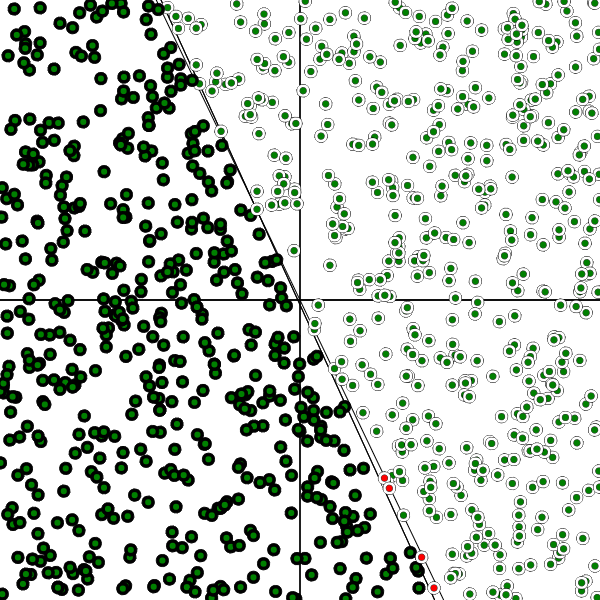
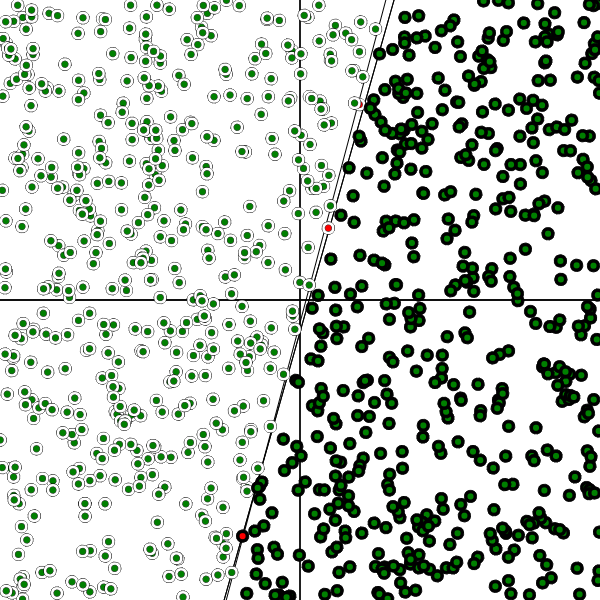
updated links and image and bias learning rate factor

diff --git a/links.html b/links.html
@@ -15,6 +15,7 @@
     <a href="https://plot.ly/nodejs/line-and-scatter/">Plotly Node Js</a>
     <a href="http://visjs.org/">Vis Graphing Library</a>
     <a href="http://usejsdoc.org/">JS Docs</a>
+    <a href="https://github.com/nature-of-code/noc-examples-processing/blob/master/chp10_nn/NOC_10_01_SimplePerceptron/Perceptron.pde">Perceptron Tutorial Code</a>
 </body>
 
 </html>

diff --git a/src/io/bhagat/artificialintelligence/Perceptron.java b/src/io/bhagat/artificialintelligence/Perceptron.java
@@ -141,7 +141,7 @@ public class Perceptron {
 		int guess = guess(inputs);
 		float err = target - guess;
 		weights.add(inputs.multiply(err * learningRate));
-		bias += err * learningRate;
+		bias += 100 * err * learningRate;
 		learningRate *= learningRateFactor;
 	}
 	
